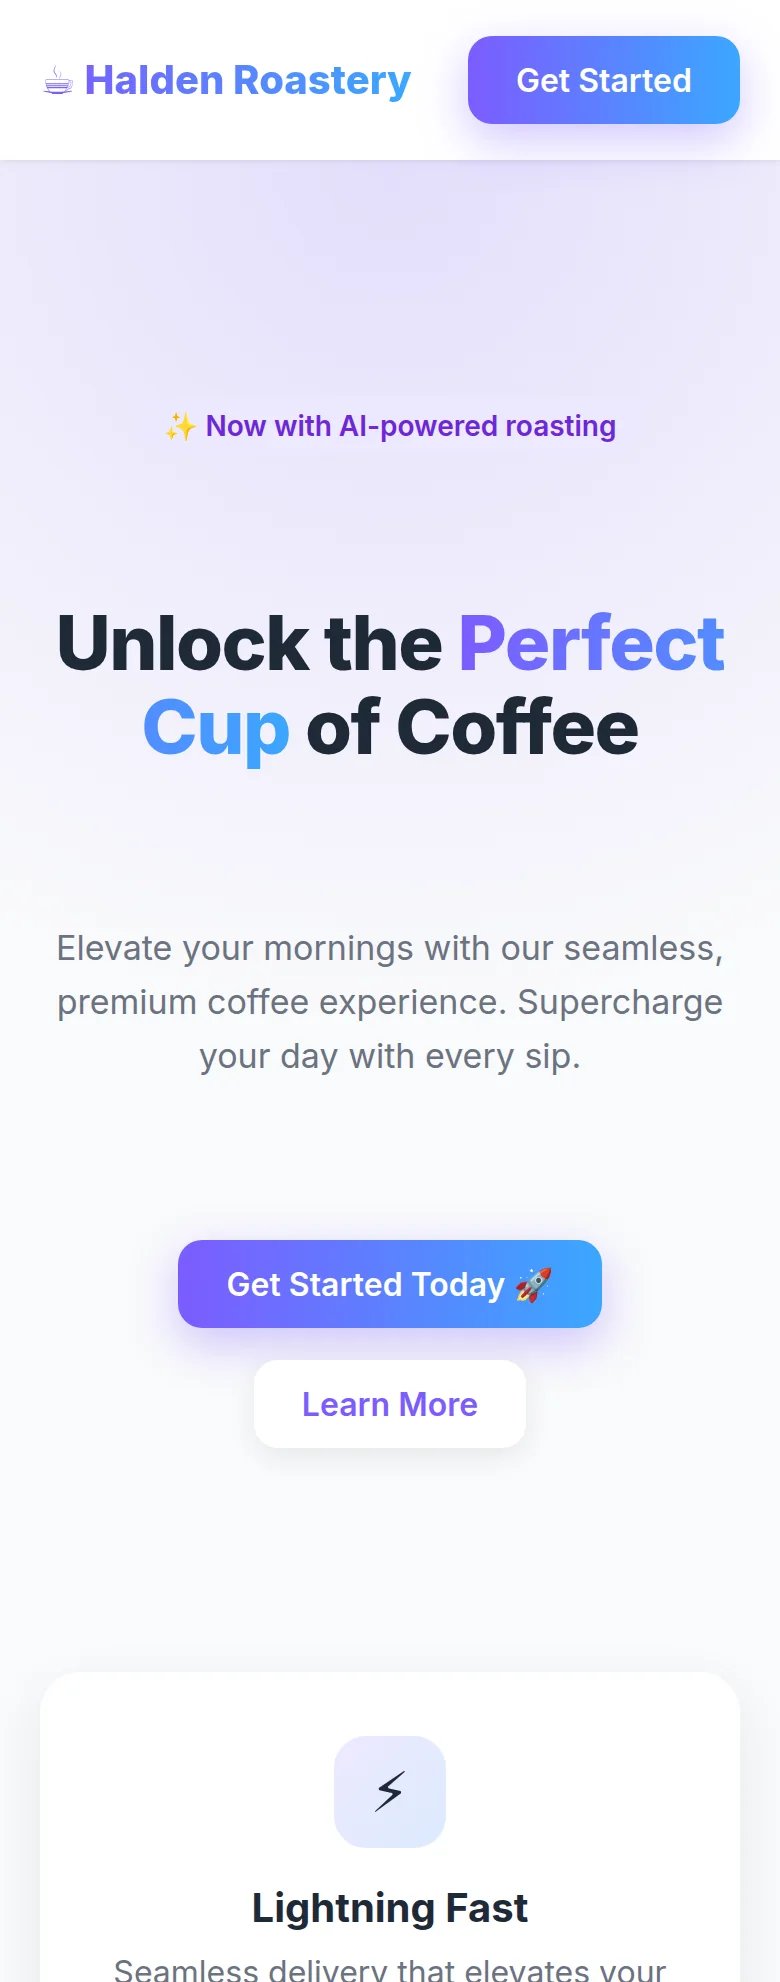
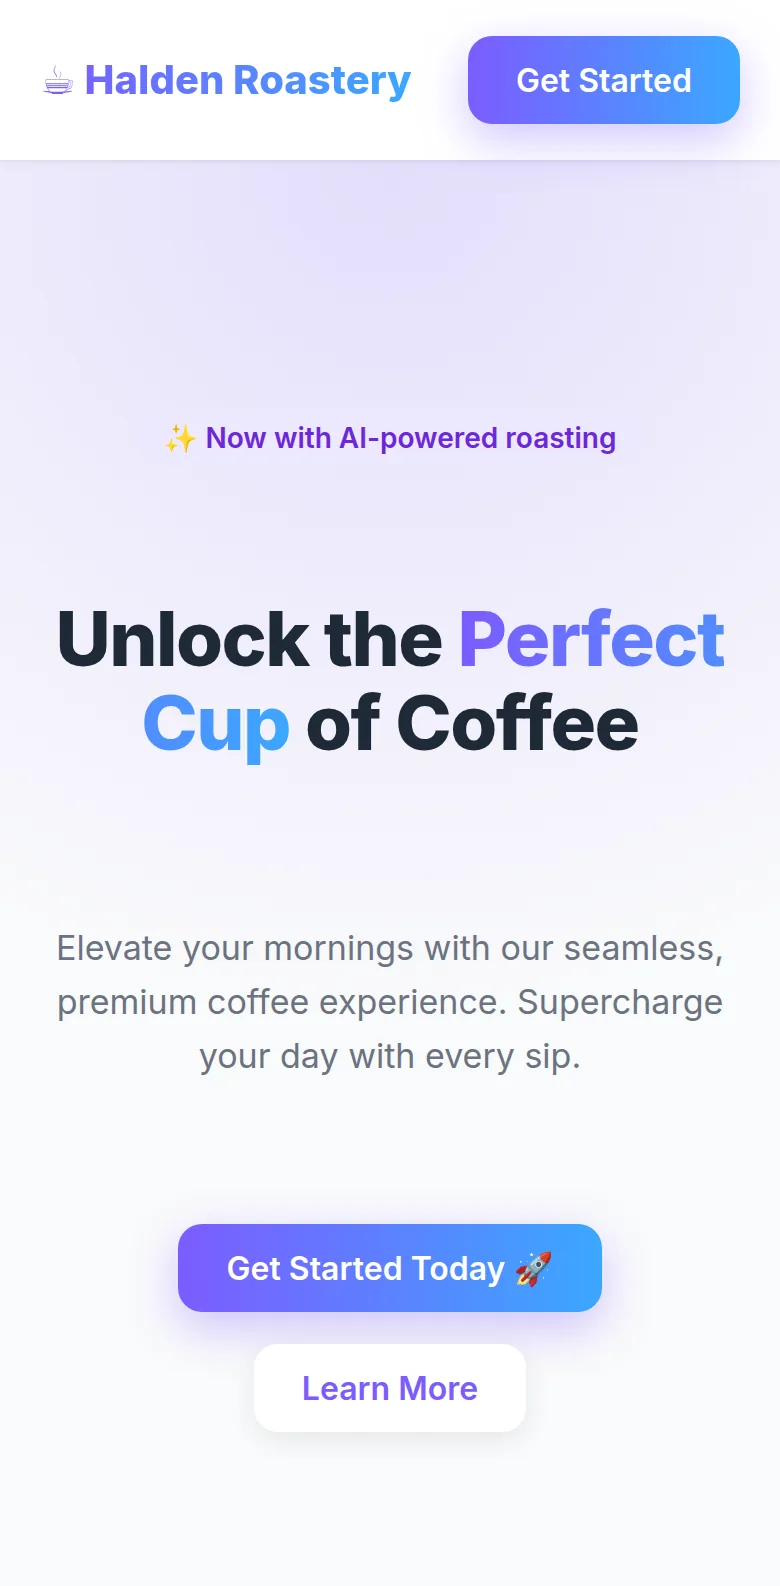
Exhibit A: fits one screen, bigger centred 'AI slop / What’s wrong' switch
- Picture width is derived from the viewport height so switch, picture and
  caption are always fully in view (desktop 16:10, phone ratio from its shot).
- Phone shot cropped after the buttons with bigger handwriting so it stays
  readable at the smaller size; card note dropped there.
- Switch moves above the picture, centred, with a sliding block; 'What’s
  wrong' in the red-pen hand (Caveat, subset) and a scribbled '(go on, click
  it)' on wide screens that fades once used.

Claude-Session: https://claude.ai/code/session_01XV7WpNsZMa4Beu1Lanh1Lz

diff --git a/assets/css/sections.css b/assets/css/sections.css
@@ -219,45 +219,90 @@
 }
 
 /* ---- Problem: Exhibit A — clean AI site, then the red pen ----------- */
-/* The pen marks are a transparent layer over the clean screenshot; the
+/* Switch on top, picture, caption: all three fit on one screen. The picture
+   is sized from the viewport height (--ratio = its width / height).
+   The pen marks are a transparent layer over the clean screenshot; the
    sweep is a left-to-right clip, like a pen moving across the page. */
-.exhibit { margin: var(--space-4) 0 0; }
-.exhibit__bar {
-  display: flex;
-  flex-wrap: wrap;
-  align-items: center;
-  justify-content: space-between;
-  gap: var(--space-3) var(--space-5);
-  margin-bottom: var(--space-3);
+.exhibit {
+  --ratio: 1.6;
+  --chrome: 9rem;                               /* switch + caption + gaps */
+  display: grid;
+  justify-items: center;
+  gap: var(--space-4);
+  margin: var(--space-5) 0 0;
 }
-.exhibit__caption {
-  display: flex;
-  flex-wrap: wrap;
-  align-items: baseline;
-  gap: var(--space-1) var(--space-3);
-  font-size: var(--step--1);
-}
+@media (max-width: 640px) { .exhibit { --ratio: 0.4918; } }   /* 780 × 1586 */
 
+/* Switch: two options, a solid block slides under the chosen one */
 .exhibit__toggle {
+  position: relative;
   display: none;                                /* needs JS; without it the pen is simply on */
+  grid-template-columns: 1fr 1fr;
+  padding: 4px;
   border: 1px solid var(--ink);
   border-radius: var(--radius);
+  background: var(--paper);
 }
-.js .exhibit__toggle { display: inline-flex; }
+.js .exhibit__toggle { display: grid; }
+.exhibit__toggle::before {                      /* the sliding block */
+  content: "";
+  position: absolute;
+  inset: 4px auto 4px 4px;
+  width: calc(50% - 4px);
+  border-radius: var(--radius);
+  background: var(--ink);
+  transition: translate var(--dur-slow) var(--ease-out), background var(--dur-slow) var(--ease-out);
+}
+.exhibit.is-marked .exhibit__toggle::before { translate: 100% 0; background: var(--accent); }
 .exhibit__toggle button {
-  padding: 0.55em 1.1em;
-  font-size: var(--step--1);
-  font-weight: 500;
+  position: relative;                           /* above the block */
+  display: grid;
+  place-items: center;
+  min-width: 9.5rem;
+  min-height: 3.25rem;
+  padding: 0 var(--space-5);
+  font-size: var(--step-1);
+  font-weight: 600;
+  letter-spacing: -0.01em;
   line-height: 1;
-  transition: background var(--dur-fast) var(--ease-out), color var(--dur-fast) var(--ease-out);
+  white-space: nowrap;
+  color: var(--ink);
+  transition: color var(--dur-slow) var(--ease-out);
 }
-.exhibit__toggle button + button { border-left: 1px solid var(--ink); }
-.exhibit__toggle [aria-pressed="true"] { background: var(--ink); color: var(--paper); }
-.exhibit__toggle [data-show="pen"][aria-pressed="true"] { background: var(--accent); color: var(--accent-ink); }
-.exhibit__toggle button:not([aria-pressed="true"]):hover { background: var(--paper-deep); }
+.exhibit__toggle [aria-pressed="true"] { color: var(--paper); }
+.exhibit__toggle button:not([aria-pressed="true"]):hover { color: var(--accent); }
+.exhibit__pen-label {
+  font-family: var(--font-hand);
+  font-size: 1.3em;                             /* the hand runs small */
+  font-weight: 600;
+  letter-spacing: 0;
+  rotate: -3deg;
+}
+/* a scribbled aside hanging off the switch; wide screens only */
+.exhibit__nudge {
+  position: absolute;
+  left: calc(100% + var(--space-4));
+  top: 50%;
+  translate: 0 -50%;
+  rotate: -6deg;
+  font-family: var(--font-hand);
+  font-size: var(--step-1);
+  font-weight: 600;
+  white-space: nowrap;
+  color: var(--accent);
+  pointer-events: none;
+  transition: opacity var(--dur-slow) var(--ease-out);
+}
+.exhibit.was-toggled .exhibit__nudge { opacity: 0; }     /* they got it */
+@media (max-width: 800px) { .exhibit__nudge { display: none; } }
+@media (max-width: 640px) {
+  .exhibit { --chrome: 10rem; }
+  .exhibit__toggle button { min-width: 7.5rem; min-height: 2.75rem; padding: 0 var(--space-4); font-size: var(--step-0); }
+}
 
 .exhibit__frame {
   position: relative;
+  width: clamp(14rem, calc((100svh - var(--header-h) - var(--chrome)) * var(--ratio)), 100%);
   border: 1px solid var(--rule);
   border-radius: var(--radius);
   overflow: hidden;
@@ -272,6 +317,16 @@
 }
 .js .exhibit:not(.is-marked) .exhibit__pen { clip-path: inset(0 100% 0 0); }
 .js .exhibit.is-marked .exhibit__pen { clip-path: inset(0 0 0 0); }
+
+.exhibit__caption {
+  display: flex;
+  flex-wrap: wrap;
+  justify-content: center;
+  align-items: baseline;
+  gap: var(--space-1) var(--space-3);
+  font-size: var(--step--1);
+  text-align: center;
+}
 
 /* ---- Why me: 2×2 on desktop, stacked on phones, hairlines not boxes -- */
 .why {

diff --git a/index.html b/index.html
@@ -26,6 +26,8 @@
   <link rel="preconnect" href="https://fonts.gstatic.com" crossorigin>
   <link rel="stylesheet" href="https://fonts.googleapis.com/css2?family=Familjen+Grotesk:wght@400;500;600;700&family=Newsreader:ital,opsz,wght@1,6..72,400;1,6..72,500&display=swap">
 
+  <link rel="stylesheet" href="https://fonts.googleapis.com/css2?family=Caveat:wght@600&text=What%E2%80%99s%20wrong(go%20on%2C%20click%20it)&display=swap">
+
   <link rel="stylesheet" href="assets/css/tokens.css">
   <link rel="stylesheet" href="assets/css/base.css">
   <link rel="stylesheet" href="assets/css/layout.css">
@@ -105,25 +107,24 @@
         <!-- A typical AI site: clean first, then the red pen sweeps over it (exhibit.js).
              Sources: render/compare/ai.html + annotate.js → shoot.js → finalize.py compare -->
         <figure class="exhibit split__full" data-exhibit data-reveal>
-          <figcaption class="exhibit__bar">
-            <p class="exhibit__caption"><span class="label">Exhibit A</span> A&nbsp;typical AI first draft. <span class="aside">(Names changed to protect the guilty.)</span></p>
-            <div class="exhibit__toggle" role="group" aria-label="Show Exhibit A">
-              <button type="button" data-show="clean" aria-pressed="false">Looks fine</button>
-              <button type="button" data-show="pen" aria-pressed="true">Red pen</button>
-            </div>
-          </figcaption>
+          <div class="exhibit__toggle" role="group" aria-label="Show Exhibit A as">
+            <button type="button" data-show="clean" aria-pressed="false">AI slop</button>
+            <button type="button" data-show="pen" aria-pressed="true"><span class="exhibit__pen-label">What’s wrong</span></button>
+            <span class="exhibit__nudge" aria-hidden="true">(go on, click&nbsp;it)</span>
+          </div>
           <div class="exhibit__frame">
             <picture>
-              <source media="(max-width: 640px)" srcset="assets/img/compare/ai-clean-mobile.webp" width="780" height="1982">
+              <source media="(max-width: 640px)" srcset="assets/img/compare/ai-clean-mobile.webp" width="780" height="1586">
               <img class="exhibit__img" src="assets/img/compare/ai-clean-desktop.webp" width="2000" height="1250" loading="lazy" decoding="async"
                    alt="A coffee roaster’s website straight from AI: purple-to-blue gradient logo, centred headline “Unlock the Perfect Cup of Coffee”, gradient buttons, three rounded cards with emoji icons.">
             </picture>
             <picture class="exhibit__pen">
-              <source media="(max-width: 640px)" srcset="assets/img/compare/ai-pen-mobile.webp" width="780" height="1982">
+              <source media="(max-width: 640px)" srcset="assets/img/compare/ai-pen-mobile.webp" width="780" height="1586">
               <img class="exhibit__img" src="assets/img/compare/ai-pen-desktop.webp" width="2000" height="1250" loading="lazy" decoding="async"
-                   alt="Red-pen notes on it: “emoji + gradient logo. bold choice. (it isn’t)”, “shitty button #1”, “sparkles = AI was here”, “gradient text. in Inter. again.”, “buzzword bingo! 3/3”, “shitty buttons (rocket included, free)”, “3 rounded cards, drop shadows, emoji in a box. every. time.”">
+                   alt="Red-pen notes on it: “emoji + gradient logo. bold choice.”, “shitty button #1”, “sparkles = AI was here”, “gradient text. in Inter. again.”, “buzzword bingo! 3/3”, “shitty buttons (rocket included, free)”, “3 rounded cards, drop shadows, emoji in a box. every. time.”">
             </picture>
           </div>
+          <figcaption class="exhibit__caption"><span class="label">Exhibit A</span> A&nbsp;typical AI first draft. <span class="aside">(Names changed to protect the guilty.)</span></figcaption>
         </figure>
       </div>
     </section>

diff --git a/render/compare/annotate.js b/render/compare/annotate.js
@@ -15,24 +15,23 @@
   if (mobile) {
     const style = document.createElement("style");
     style.textContent = `
-      header { padding-top: 118px; }
-      .pill { margin-bottom: 74px; }
-      h1 { margin-bottom: 76px; }
-      header p { margin-bottom: 78px; }
-      .cards { padding-top: 64px; }`;
+      header { padding-top: 124px; }
+      .pill { margin-bottom: 66px; }
+      h1 { margin-bottom: 78px; }
+      header p { margin-bottom: 70px; }
+      .cards { margin-top: 40px; }`;
     document.head.append(style);
   }
   const R = (sel) => document.querySelector(sel).getBoundingClientRect();
 
   const NOTES = mobile ? [
-    { marks: [["circle", ".logo"]], at: () => [22, R("nav").bottom + 52], rot: -4, text: "emoji + gradient\nlogo. bold choice." },
-    { marks: [["circle", "nav .btn"]], at: () => [252, R("nav").bottom + 56], rot: 4, text: "shitty\nbutton #1" },
+    { marks: [["circle", ".logo"]], at: () => [16, R("nav").bottom + 54], rot: -4, text: "emoji + gradient\nlogo. bold choice." },
+    { marks: [["circle", "nav .btn"]], at: () => [262, R("nav").bottom + 58], rot: 4, text: "shitty\nbutton #1" },
     { marks: [["circle", ".pill"]], at: () => [118, R(".pill").bottom + 50], rot: -3, text: "✨ = AI was here" },
-    { marks: [["wave", ["h1 span", "Perfect"]], ["wave", ["h1 span", "Cup"]]], at: () => [226, R("h1").bottom + 38], rot: 4, text: "gradient text.\nInter. again.", arrow: false },
+    { marks: [["wave", ["h1 span", "Perfect"]], ["wave", ["h1 span", "Cup"]]], at: () => [214, R("h1").bottom + 40], rot: 4, text: "gradient text.\nInter. again.", arrow: false },
     { marks: [["under", ["header p", "Elevate"]], ["under", ["header p", "seamless"]], ["under", ["header p", "Supercharge"]]],
-      at: () => [96, R("header p").bottom + 48], rot: -2, text: "buzzword bingo! 3/3", arrow: false },
-    { marks: [["box", ".ctas .btn"]], at: () => [80, R(".ctas").bottom + 50], rot: 3, text: "shitty buttons (rocket incl.)", arrow: false },
-    { marks: [["circle", ".card:first-child .icon"]], at: () => [34, R(".card").top - 22], rot: -2, text: "emoji in a rounded box. every. time.", arrow: false },
+      at: () => [80, R("header p").bottom + 44], rot: -2, text: "buzzword bingo! 3/3", arrow: false },
+    { marks: [["box", ".ctas .btn"]], at: () => [50, R(".ctas").bottom + 48], rot: 3, text: "shitty buttons (rocket incl.)", arrow: false },
   ] : [
     { marks: [["circle", ".logo"]], at: [52, 150], rot: -4, text: "emoji + gradient logo.\nbold choice." },
     { marks: [["circle", "nav .btn"]], at: [1040, 158], rot: 4, text: "shitty button #1" },
@@ -103,7 +102,7 @@
     }
   };
 
-  const size = mobile ? 21 : 29;
+  const size = mobile ? 24 : 29;       // phone shot is shown small, so bigger handwriting
   const note = ({ at, rot, text }) => {
     const [x, y] = typeof at === "function" ? at() : at;
     const t = document.createElementNS("http://www.w3.org/2000/svg", "text");
@@ -152,5 +151,6 @@
     arrow(b, pick.m, n.tip && n.tip());
   }
   svg.id = "pen";
-  window.__shotHeight = Math.ceil(document.querySelector(".card h3").getBoundingClientRect().bottom + 24);
+  // phones: crop just below the last note (the buttons)
+  window.__shotHeight = Math.ceil(R(".ctas").bottom + 76);
 })();

diff --git a/assets/js/exhibit.js b/assets/js/exhibit.js
@@ -12,11 +12,12 @@ export function exhibit(root) {
     for (const b of buttons) b.setAttribute("aria-pressed", String((b.dataset.show === "pen") === marked));
   };
   show(false);
+  const touch = () => { touched = true; root.classList.add("was-toggled"); };
 
   for (const b of buttons) {
-    b.addEventListener("click", () => { touched = true; show(b.dataset.show === "pen"); });
+    b.addEventListener("click", () => { touch(); show(b.dataset.show === "pen"); });
   }
-  frame.addEventListener("click", () => { touched = true; show(!root.classList.contains("is-marked")); });
+  frame.addEventListener("click", () => { touch(); show(!root.classList.contains("is-marked")); });
 
   // Give people a second to look at the clean version first
   const io = new IntersectionObserver(([entry]) => {

diff --git a/assets/css/tokens.css b/assets/css/tokens.css
@@ -21,6 +21,7 @@
   --font-sans:  "Familjen Grotesk", ui-sans-serif, system-ui, sans-serif;
   --font-serif: "Newsreader", ui-serif, Georgia, serif;
   --font-mono:  ui-monospace, "SF Mono", Menlo, monospace;
+  --font-hand:  "Caveat", "Bradley Hand", cursive;  /* red-pen notes; subset to the Exhibit A switch */
 
   /* Fluid type scale (min @ 360px → max @ 1440px) */
   --step--1: clamp(0.8125rem, 0.79rem + 0.1vw, 0.875rem);  /* 13 → 14 */
@@ -56,6 +57,7 @@
   --col-gap:  clamp(1rem, 0.6rem + 1.5vw, 1.5rem);
 
   /* ---- Shape & motion -------------------------------------------------- */
+  --header-h: 4.25rem;
   --radius: 2px;             /* nearly square on purpose */
   --ease-out: cubic-bezier(0.2, 0.7, 0.1, 1);
   --dur-fast: 180ms;

diff --git a/CLAUDE.md b/CLAUDE.md
@@ -60,12 +60,16 @@ Nav: six-petal asterisk mark + "tastecherry" wordmark (SVG symbol `#asterisk`, s
    `--note-block` (footnote), and reaches up behind the title by --overlap so the leaf overlaps "with".
    Checked at 375×667, 1024×720, 1440×900.
 2. `#problem` — 01 The problem: split (headline left, copy right) + "Exhibit A": a typical AI site (demo coffee roaster).
-   It shows clean first ("Looks fine"), then a red pen sweeps over it (left-to-right clip, `--dur-draw`) 1.2 s after it
-   is well in view; a toggle (Looks fine / Red pen) or a click on the picture flips it (`exhibit.js`). Without JS the
-   pen is just on. The pen is a transparent layer over the clean shot; desktop and phone versions.
+   Centred switch "AI slop / What’s wrong" (sliding block; "What’s wrong" in the Caveat hand, subset via `&text=`,
+   plus a scribbled "(go on, click it)" on wide screens) → picture → caption. Switch, picture and caption always fit on
+   one screen: the picture's width comes from the viewport height (`--ratio`, `--chrome`). It shows clean first, then a
+   red pen sweeps over it (left-to-right clip, `--dur-draw`) 1.2 s after it is well in view; the switch or a click on
+   the picture flips it (`exhibit.js`). Without JS the pen is just on. The pen is a transparent layer over the clean
+   shot; desktop (1280×800) and phone (390 wide, cropped after the buttons) versions.
    Sources in `render/compare/`: `ai.html` (the only place the generic AI look is allowed) + `annotate.js` (rough.js
    marks + Caveat notes; the phone layout opens up gaps to write in). Rebuild: `node render/compare/shoot.js`
    (needs `npm i playwright`) then `python3 render/finalize.py compare` → `assets/img/compare/ai-{clean,pen}-*.webp`.
+   If the phone image's size changes, update its width/height in index.html and `--ratio` in sections.css.
 3. `#cherry` — 02 Cherry on top: split layout.
 4. `#approach` — centred h2 "It’s Simple", then rough milky stone → arrow → cut brilliant ("AI's Finished Product" /
    "My Finished Product" as h3s), then a quiet ink-soft "capisce?" underneath. No other copy.
@@ -101,6 +105,7 @@ next word with `&nbsp;` so it never ends a line. Keep that when editing copy.
 
 - Familjen Grotesk (`--font-sans`) for everything: a grotesk with character (single-storey a), not the default everyone ships.
 - Newsreader italic (`<em>`) only for emphasis inside headlines. Both from Google Fonts.
+- Caveat (`--font-hand`) only for the red-pen bits of Exhibit A, loaded as a subset of just those letters.
 
 ## Design rules (anti-vibe-coded checklist)
 
